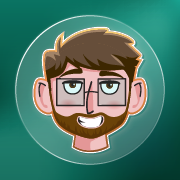
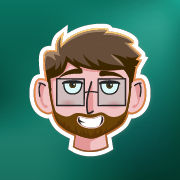
hg case rewrites; apple-touch-id update

Changed region(s): [[0.0833, 0.0833, 0.9167, 0.9167]]

diff --git a/src/content/case-studies/heartful-gardens/index.md b/src/content/case-studies/heartful-gardens/index.md
@@ -96,7 +96,7 @@ blocks:
     number: "01c"
     heading: "Typography"
     body: >
-      The display type is Fredoka Medium — a rounded geometric sans that gives the logo and titles their friendly, hand-made warmth. Body copy is set in Inter which stay crisp and legible small, on screen and in print.
+      The display type is Fredoka Medium — a rounded geometric sans that gives the logo and titles their friendly, hand-made warmth. Body copy is set in Inter which stays crisp and legible even at small point sizes.
 
   - type: typeSpec
     color: "#1b7b01"          # HG green — tints every value
@@ -138,7 +138,7 @@ blocks:
     number: "02"
     heading: "Site Design"
     problem: >
-      Give a small, local business a web presence as warm and hand-made as the brand itself. Of primary concern was ease of navigation, especially on mobile, It needs to be credible to first-time visitors, easy to navigate on a phone at the market, and never mistaken for a template.
+      Give a small, local business a web presence as warm and hand-made as the brand itself. Of primary concern was ease of navigation, especially on mobile, highlight the product and direct customers to a market.
 
   - type: subsection
     number: "02a"
@@ -172,13 +172,13 @@ blocks:
     alt: "Heartful Gardens 'Find Us' button opening the location in Apple Maps on iPhone"
     heading: "Find Us"
     body: >
-      The business earns its keep at the market stall so the "Find Us" section allows the client to announce the days and locations of markets. Google Maps is embedded into the accordion dropdowns. As Apple Maps charges for embed, a solution was needed to ensure ease-of-use on iOS devices. The solution was to provide a link that opened in the native iOS maps app.
+      The business earns its keep at the market stall so the "Find Us" section allows the client to quickly find the days and locations of markets. Google Maps is embedded into the accordion dropdowns. As Apple Maps charges for embed, a solution was needed to ensure ease-of-use on iOS devices. The solution was to provide a link that opened in the native iOS maps app.
 
   - type: subsection
     number: "02b"
     heading: "Engagement"
     body: >
-      Custom Rive animations I built into the live site — each designed to add warmth and life without slowing the page down.
+      Custom Rive animations were built into the live site — each designed to add warmth and life without slowing the page down.
 
   - type: row
     side: right
@@ -191,7 +191,7 @@ blocks:
     hint: right
     enlarge: true
     body: >
-      The hero graphic is custom line art drawn in Illustrator, imported into Rive, and animated to come alive on page load. Building it as live vector keeps it crisp at any size and ships lighter than an exported video. Two artboards are present, allowing a state machine to select the proper aspect ratio depending on the user's device. 
+      The hero graphic is custom line art drawn in Illustrator, imported into Rive, and animated to come alive on page load. Two artboards are present, allowing a state machine to select the proper aspect ratio depending on the user's device. 
     border: true
     radius: true
     background: "#e6ddc6"
@@ -244,7 +244,7 @@ blocks:
     heading: "Business cards"
     mediaTitle: true
     body: >
-      A minimal design fit the brand best, and the business cards were created around this philosophy to be simple, friendly,and eye-catching. The rounded corners mirrored the logo while the textured paper spoke to the rustic aspect of the business.
+      A minimal design fit the brand best. The business cards were created to be simple, friendly, and eye-catching. The rounded corners mirrored the logo while the textured paper spoke to the rustic aspect of the business.
     border: true
     radius: true
   - type: row
@@ -262,7 +262,7 @@ blocks:
       - ./assets/whysourdough-1.webp
       - ./assets/whysourdough-2.webp
     body: >
-      A full-color, front and back, 5x7 flyer was designed and printed as an educational and promotional tool. Conveying the health benefits of sourdough bread was important the business owners, yet the data density needed to be paired with a scannable layout. [See the flyer up close](#zoom).
+      A full-color, front and back, 5x7 flyer was designed and printed as an educational and promotional tool. Conveying the health benefits of sourdough bread was important to the business owners, yet the data density needed to be paired with a scannable layout. [See the flyer up close](#zoom).
     border: true
     radius: true
 
@@ -272,7 +272,7 @@ blocks:
     heading: "Table tents"
     mediaTitle: true
     body: >
-      Table tents covering their entire product range were needed to offer  at-a-glance pricing/info for the stall, sized and styled to read from a few feet away.
+      Table tents covering their entire product range were needed to offer at-a-glance pricing/info for the stall, sized and styled to read from a few feet away.
     border: true
     radius: true
 
@@ -297,7 +297,7 @@ blocks:
     heading: "Banner"
     mediaTitle: true
     body: >
-      A large-format banner anchored the market stall — the logo and brand colors scaled up to read from across the lot, prepped as a production-ready file the client could hand straight to a wide-format printer.
+      A large-format banner anchors the market stall with the logo and brand colors scaled up to read from across the lot. The artwork was delivered production-ready file the client could hand straight to a wide-format printer.
     border: true
     radius: true
 
